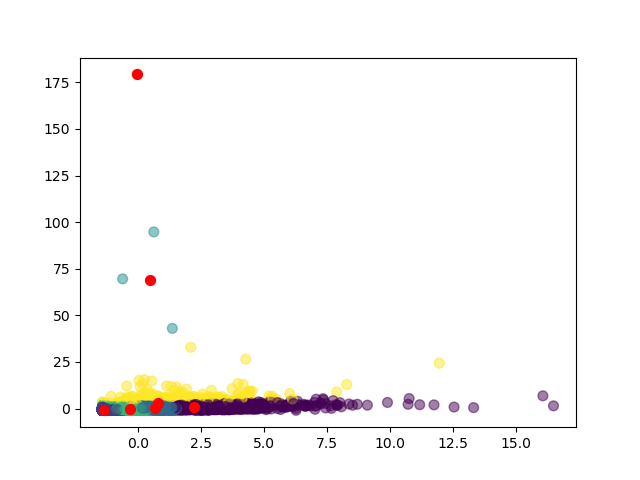
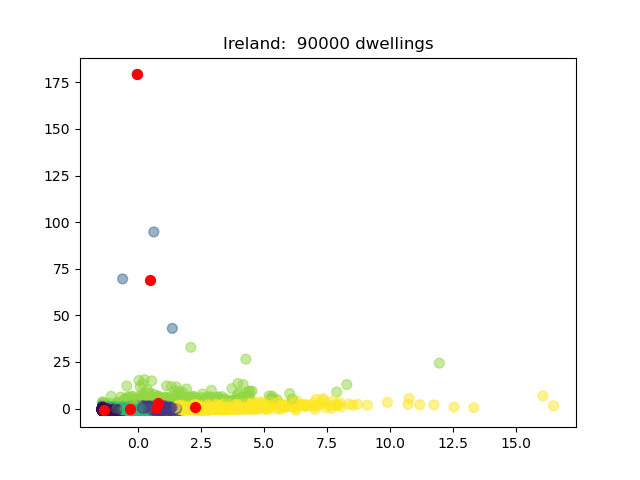
fixing kmeans and kmedoids

diff --git a/src/at/uibk/epc/clustering/kmedoids/kmedoids_clustering_per_country.py b/src/at/uibk/epc/clustering/kmedoids/kmedoids_clustering_per_country.py
@@ -1,4 +1,3 @@
-from db_data_per_country import getRawDataEngland
 from sklearn_extra.cluster import KMedoids
 from sklearn.preprocessing import StandardScaler
 import pandas as pd
@@ -6,56 +5,6 @@ import numpy as np
 import matplotlib.pyplot as plt
 import os
 from pathlib import Path
-
-# limit 40.000 is ok but takes a lot of time to process and cluster 3 is empty for k=5.
-# limit 10.000, cluster=5, inertia aprox 5300
-limit = 10000
-clusters = 7
-englandData = getRawDataEngland(limit)
-country = 'England'
-
-# https://hackersandslackers.com/json-into-pandas-dataframes/
-# json_normalize has as default separator '.', since we have float numbers in our data, we set the column separator for the normalization to '_'
-data_df = pd.json_normalize(englandData, sep="_")
-print(data_df.describe().transpose())
-
-# https://datatofish.com/k-means-clustering-python/
-slim_data_df = pd.DataFrame(
-    data_df, columns=['ratedDwelling_spatialData_totalFloorArea_value', 'ratedDwelling_thermalData_finalEnergyDemand_value'])
-
-print(slim_data_df.head)
-
-# fitting the data is quite important, the clusters are now more like circles; the non-fitted data was more like strapes.
-slim_fitted_df = StandardScaler().fit_transform(slim_data_df)
-
-# preset the number of clusters
-kmedoids = KMedoids(n_clusters=clusters, random_state=0).fit(slim_fitted_df)
-print("labels")
-print(kmedoids.labels_)
-
-# Displays the cluster centers, here called medoids, which are points from the original dataset
-print("Cluster centers")
-print(kmedoids.cluster_centers_)
-
-print("inertia")
-print(kmedoids.inertia_)
-
-print("predictions")
-print(kmedoids.predict([[-0.98965, -0.3211], [0.6, -0.300]]))
-
-plt.scatter(slim_fitted_df[:, 0],
-            slim_fitted_df[:, 1], c=kmedoids.labels_.astype(float), s=50, alpha=0.5)
-
-centroids = kmedoids.cluster_centers_
-plt.scatter(centroids[:, 0], centroids[:, 1], c='red', s=50)
-
-here = os.path.dirname(os.path.abspath(__file__))
-
-filename = os.path.join(Path(here).parent, 'plots',
-                        'kmedoid_plots', country + '_kmedoid_plot.png')
-plt.savefig(filename)
-
-# function that creates a dataframe for cluster centers with a column for cluster number
 
 
 def pd_centers(cols_of_interest, centers):
@@ -69,25 +18,74 @@ def pd_centers(cols_of_interest, centers):
     return P
 
 
-P = pd_centers(['ratedDwelling_spatialData_totalFloorArea_value',
-                'ratedDwelling_thermalData_finalEnergyDemand_value'], centroids)
-print('Centroids (x,y,label) for the fitted data')
-print(P)
+def kmedoids_clustering(country, dbData, thermalFields, clusters):
 
-# we have the array with labels (cluster numbers)
-# so we add a new column with cluster numbers to the original data
-labels = kmedoids.labels_
-data_df['cluster_number'] = labels
-print('original data and the corresponfing cluster numbers')
-print(data_df)
+    # https://hackersandslackers.com/json-into-pandas-dataframes/
+    # json_normalize has as default separator '.', since we have float numbers in our data, we set the column separator for the normalization to '_'
+    data_df = pd.json_normalize(dbData, sep="_")
+    print(data_df.describe().transpose())
 
-# display the rating level from the original data and the cluster number form the fitted data
-rating_vs_cluster_data_df = pd.DataFrame(
-    data_df, columns=['awardedRating_ratingLevel', 'cluster_number'])
-print(rating_vs_cluster_data_df)
+    # https://datatofish.com/k-means-clustering-python/
+    slim_data_df = pd.DataFrame(
+        data_df, columns=['ratedDwelling_spatialData_totalFloorArea_value', thermalFields])
 
-# group by rating level
-print(rating_vs_cluster_data_df.groupby(
-    ["awardedRating_ratingLevel", "cluster_number"])['cluster_number'].count())
+    print(slim_data_df.head)
 
-# => there is no clear relation btw. rating_level and cluster number
+    # fitting the data is quite important, the clusters are now more like circles; the non-fitted data was more like strapes.
+    slim_fitted_df = StandardScaler().fit_transform(slim_data_df)
+
+    # preset the number of clusters
+    kmedoids = KMedoids(n_clusters=clusters,
+                        random_state=0).fit(slim_fitted_df)
+    print("labels")
+    print(kmedoids.labels_)
+
+    # Displays the cluster centers, here called medoids, which are points from the original dataset
+    print("Cluster centers")
+    print(kmedoids.cluster_centers_)
+
+    print("inertia")
+    print(kmedoids.inertia_)
+
+    print("predictions")
+    print(kmedoids.predict([[-0.98965, -0.3211], [0.6, -0.300]]))
+
+    plt.scatter(slim_fitted_df[:, 0],
+                slim_fitted_df[:, 1], c=kmedoids.labels_.astype(float), s=50, alpha=0.5)
+
+    centroids = kmedoids.cluster_centers_
+    plt.scatter(centroids[:, 0], centroids[:, 1], c='red', s=50)
+    plt.title(country + ":  " +
+              str(len(slim_data_df)+1) + " dwellings")
+
+    here = os.path.dirname(os.path.abspath(__file__))
+
+    filename = os.path.join(Path(here).parent, 'plots',
+                            'kmedoid_plots', country + '_kmedoid_plot.png')
+    plt.savefig(filename)
+
+    # function that creates a dataframe for cluster centers with a column for cluster number
+
+    P = pd_centers(['ratedDwelling_spatialData_totalFloorArea_value',
+                    thermalFields], centroids)
+    print('Centroids (x,y,label) for the fitted data')
+    print(P)
+
+    # we have the array with labels (cluster numbers)
+    # so we add a new column with cluster numbers to the original data
+    labels = kmedoids.labels_
+    data_df['cluster_number'] = labels
+    print('original data and the corresponfing cluster numbers')
+    print(data_df)
+
+    # display the rating level from the original data and the cluster number form the fitted data
+    rating_vs_cluster_data_df = pd.DataFrame(
+        data_df, columns=['awardedRating_ratingLevel', 'cluster_number'])
+    print(rating_vs_cluster_data_df)
+
+    # group by rating level
+    print(rating_vs_cluster_data_df.groupby(
+        ["awardedRating_ratingLevel", "cluster_number"])['cluster_number'].count())
+
+    # => there is no clear relation btw. rating_level and cluster number
+    return 'the END'

diff --git a/src/at/uibk/epc/clustering/kmedoids/db_data_per_country.py b/src/at/uibk/epc/clustering/kmedoids/db_data_per_country.py
@@ -3,17 +3,20 @@ from pymongo import MongoClient
 # limit is given with limit(x)
 
 
-def getRawDataEngland(limit_nr):
-    connectionString = 'mongodb+srv://epcuser4:pw14epc@cluster0-1w0r9.mongodb.net/test?retryWrites=true&w=majority'
+def getRawData(country, connectionString, queryThermalDataFields, queryLimit):
+
     client = MongoClient(connectionString)
     db = client['EPC']
-    collection = db.get_collection('EPC_' + 'England')
+    collection = db.get_collection('EPC_' + country.capitalize())
 
     print(collection.full_name)
     print(str(collection.count_documents({})) +
-          ' documents aka buildings')
+          ' total documents aka buildings')
+    print(str(queryLimit) +
+          ' actual documents aka buildings')
+
     # extract the floorArea, the finalEnergyDemand and the rating level
     dbData = collection.find({},
-                             {'ratedDwelling.spatialData.totalFloorArea.value': 1, 'ratedDwelling.thermalData.finalEnergyDemand.value': 1, 'awardedRating.ratingLevel': 1}).limit(limit_nr)
+                             {'ratedDwelling.spatialData.totalFloorArea.value': 1, queryThermalDataFields: 1, 'awardedRating.ratingLevel': 1}) .limit(queryLimit)
     MongoClient.close
     return dbData

diff --git a/src/at/uibk/epc/clustering/kmedoids/kmedoids_clustering_per_France.py b/src/at/uibk/epc/clustering/kmedoids/kmedoids_clustering_per_France.py
@@ -1,0 +1,28 @@
+from db_data_per_country import getRawData
+from kmedoids_clustering_per_country import kmedoids_clustering
+from sklearn_extra.cluster import KMedoids
+from sklearn.preprocessing import StandardScaler
+import pandas as pd
+import numpy as np
+import matplotlib.pyplot as plt
+import os
+from pathlib import Path
+
+# limit 40.000 is ok but takes a lot of time to process and cluster 3 is empty for k=5.
+# limit 10.000, cluster=5, inertia aprox 5300
+#limit = 10000
+#clusters = 5
+
+# due to memory issues, the same amount of input data as for k-means is not usable for kmedoids
+country = 'France'
+connectionString = 'mongodb+srv://fra_1:Zg8RMRof0PiGOILE@cluster0.o03xt.mongodb.net/EPC?retryWrites=true&w=majority'
+queryLimit = 25000
+queryThermalDataFields = 'ratedDwelling.thermalData.finalEnergyConsumption.value'
+
+dbData = getRawData(
+    country, connectionString, queryThermalDataFields, queryLimit)
+
+k = 4
+thermalFields = 'ratedDwelling_thermalData_finalEnergyConsumption_value'
+
+kmedoids_clustering(country, dbData, thermalFields, k)

diff --git a/src/at/uibk/epc/clustering/kmedoids/kmedoids_clustering_per_England.py b/src/at/uibk/epc/clustering/kmedoids/kmedoids_clustering_per_England.py
@@ -1,0 +1,28 @@
+from db_data_per_country import getRawData
+from kmedoids_clustering_per_country import kmedoids_clustering
+from sklearn_extra.cluster import KMedoids
+from sklearn.preprocessing import StandardScaler
+import pandas as pd
+import numpy as np
+import matplotlib.pyplot as plt
+import os
+from pathlib import Path
+
+# limit 40.000 is ok but takes a lot of time to process and cluster 3 is empty for k=5.
+# limit 10.000, cluster=5, inertia aprox 5300
+#limit = 10000
+#clusters = 5
+
+# due to memory issues, the same amount of input data as for k-means is not usable for kmedoids
+country = 'England'
+connectionString = 'mongodb+srv://engl_1:GY9s0BNDrTNjvLFK@cluster0.ojmf2.mongodb.net/EPC?retryWrites=true&w=majority'
+queryLimit = 10000
+queryThermalDataFields = 'ratedDwelling.thermalData.finalEnergyDemand.value'
+
+dbData = getRawData(
+    country, connectionString, queryThermalDataFields, queryLimit)
+
+k = 5
+thermalFields = 'ratedDwelling_thermalData_finalEnergyDemand_value'
+
+kmedoids_clustering(country, dbData, thermalFields, k)

diff --git a/src/at/uibk/epc/clustering/kmeans/clustering_per_country_France.py b/src/at/uibk/epc/clustering/kmeans/clustering_per_country_France.py
@@ -12,11 +12,12 @@ import os
 country = 'France'
 connectionString = 'mongodb+srv://fra_1:Zg8RMRof0PiGOILE@cluster0.o03xt.mongodb.net/EPC?retryWrites=true&w=majority'
 queryLimit = 100000
+
 queryThermalDataFields = 'ratedDwelling.thermalData.finalEnergyConsumption.value'
 
 dbData = getRawData(
     country, connectionString, queryThermalDataFields, queryLimit)
 
-k = 7
+k = 4
 thermalFields = 'ratedDwelling_thermalData_finalEnergyConsumption_value'
 clusering_kmeans(k, country, dbData, thermalFields)

diff --git a/src/at/uibk/epc/clustering/kmeans/clustering_per_country.py b/src/at/uibk/epc/clustering/kmeans/clustering_per_country.py
@@ -74,6 +74,8 @@ def clusering_kmeans(k_clusters, country, dbData, queryThermalDataFields):
                 slim_fitted_df[:, 1], c=kmeans.labels_.astype(float), s=50, alpha=0.5)
 
     plt.scatter(centroids[:, 0], centroids[:, 1], c='red', s=50)
+    plt.title(country + ":  " +
+              str(len(slim_fitted_df)+1) + " dwellings")
     # plt.show()
 
     path = Path(os.path.abspath(__file__))

diff --git a/src/at/uibk/epc/clustering/kmeans/clustering_per_country_Scottland.py b/src/at/uibk/epc/clustering/kmeans/clustering_per_country_Scottland.py
@@ -17,6 +17,6 @@ queryThermalDataFields = 'ratedDwelling.thermalData.primaryEnergyDemand.value'
 dbData = getRawData(
     country, connectionString, queryThermalDataFields, queryLimit)
 
-k = 7
+k = 3
 thermalFields = 'ratedDwelling_thermalData_primaryEnergyDemand_value'
 clusering_kmeans(k, country, dbData, thermalFields)

diff --git a/src/at/uibk/epc/clustering/kmeans/clustering_per_country_England.py b/src/at/uibk/epc/clustering/kmeans/clustering_per_country_England.py
@@ -17,6 +17,6 @@ queryThermalDataFields = 'ratedDwelling.thermalData.finalEnergyDemand.value'
 dbData = getRawData(
     country, connectionString, queryThermalDataFields, queryLimit)
 
-k = 7
+k = 5
 thermalFields = 'ratedDwelling_thermalData_finalEnergyDemand_value'
 clusering_kmeans(k, country, dbData, thermalFields)
